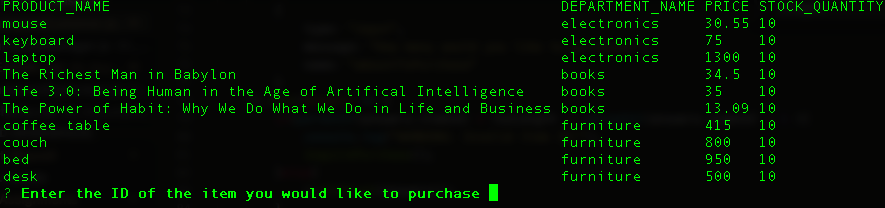
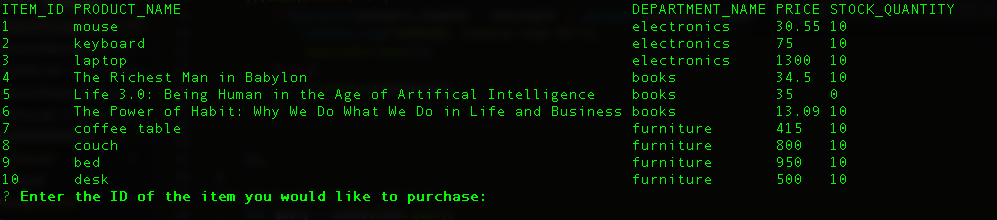
finished markdown for manager

diff --git a/bamazonCustomer.js b/bamazonCustomer.js
@@ -88,7 +88,7 @@ var inquirePurchase = () => {
 }
 var displayInventory = () => {
     let query = connection.query(
-        "SELECT product_name, department_name, price, stock_quantity FROM products", 
+        "SELECT item_id, product_name, department_name, price, stock_quantity FROM products", 
         function(err, res){
             resLength = res.length;
             console.log(columnify(res));

diff --git a/README.md b/README.md
@@ -33,3 +33,23 @@ The customer may then enter what and how many he wants to buy.
 
 If there is insufficient quantity, the customer is notified the store has an insufficient quantity and is prompted again.
 ![customer2](md_assets/customer2.png)
+
+## bamazonManager.js
+On start, the console will print a menu for the manager. 
+![manager0](md_assets/manager0.png)
+
+Upon selecting View Products for Sale, the products table is console logged. In this table, the manager can also see how much sales each product has. The menu is automatically brought up again.
+![manager1](md_assets/manager1.png)
+
+Upon selecting View Low Inventory, all rows with stock less than 5 are printed. The menu is automatically brought up again.
+![manager2](md_assets/manager2.png)
+
+Upon selecting Add to Inventory, the table is printed again for convenience. The manager can select an ID to add items to and add items. The menu is brought up again automatically. Here we select View Products for Sale again to see that the table has successfully updated. 
+![manager3](md_assets/manager3.png)
+
+Upon selecting Add New Product, the manager is prompted several times for product info. After it is input, it is added into the databse. The menu is brought up again automatically. Here we select View Products for Sale again to see that the table has successfully updated. 
+![manager4](md_assets/manager4.png)
+
+On exit, the program ends.
+![manager5](md_assets/manager5.png)
+
